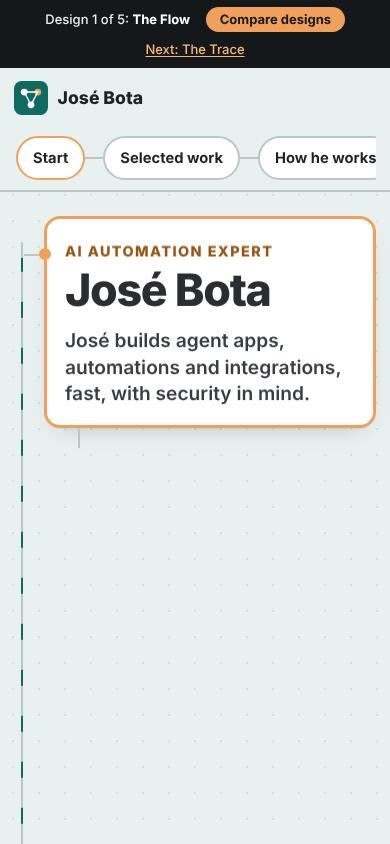
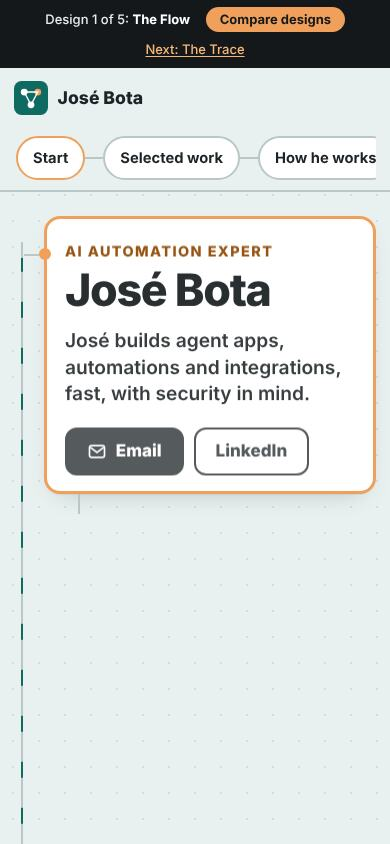
Contact buttons at the top, the Web Summit command centre, and an AI box
At José Bota's word, 16 Nov 2026: "the email and linkedin should be in
boxes", "the command center for web summit should be there as well", the
team page, and "a box like the one attached with ... llms.txt". On a
branch; not released.

- Home page: Email and LinkedIn buttons in the first node.
- Home page: a box in the agent team node linking his command centre,
  his team page and his people page on the Web Summit site. Its one line
  of description is from his people page (read 2026-11-16).
- Home page: the closing box gains "Ask your AI assistant about José"
  (the instructions for a hirer's agent) and "Hiring brief for agents"
  (llms.txt).
- The two new links are also in The Trace, The Fact Sheet, The Arena,
  work/, index.md and llms.txt.

Agent: site@AgentiCCells.jose
Claude-Session: https://claude.ai/code/session_01CqQLD8xdE7so2j3Zqiwt6R

Changed region(s): [[0.0923, 0.4929, 0.9846, 0.6161]]

diff --git a/src/index.html b/src/index.html
@@ -180,6 +180,13 @@ h1{font-size:clamp(2.8rem,8vw,5rem);letter-spacing:-.03em;line-height:1}
 .talk{display:block}
 .talk-line{font-size:1.25rem;font-weight:800;margin:0 0 .9rem}
 .talk-actions{display:flex;flex-wrap:wrap;gap:10px;margin:0}
+.hero-actions{margin-top:1.1rem}
+.talk-ai{margin-top:1.1rem;padding-top:1.1rem;border-top:2px dashed var(--line)}
+.talk-ai .talk-line{font-size:1.05rem}
+.centre{margin-top:1rem;padding:16px 18px;border:2px solid var(--teal);border-radius:14px;background:var(--teal-soft)}
+.centre h4{margin:0 0 .3rem;display:flex;align-items:center;gap:.5rem}
+.centre h4 i{width:10px;height:10px;border-radius:50%;background:var(--teal);flex:none}
+.centre p{margin:0 0 .8rem}
 .btn{display:inline-flex;align-items:center;gap:.55rem;min-height:48px;padding:0 20px;border:2px solid var(--ink);border-radius:12px;background:var(--node);color:var(--ink);font-weight:800;text-decoration:none}
 .btn.solid{background:var(--ink);color:#fff}
 .btn svg{width:20px;height:20px;flex:none}
@@ -287,6 +294,7 @@ footer p{margin:.25rem 0}
   .pipe>li.person{animation-name:land;animation-delay:6s}
   @keyframes run{0%,14%,100%{box-shadow:var(--shadow)}5%{box-shadow:0 0 0 4px var(--orange-fill),var(--shadow)}}
   @keyframes land{0%,16%,100%{box-shadow:var(--shadow);transform:none}6%{box-shadow:0 0 0 6px var(--plum-soft),0 0 0 9px var(--plum);transform:scale(1.03)}}
+  .centre h4 i{animation:port 2.2s ease-in-out infinite}
   .dots i:not(.off){animation:blink 3.2s ease-in-out infinite}
   .dots i:nth-child(3n){animation-delay:.5s}.dots i:nth-child(3n+1){animation-delay:1.1s}
   @keyframes blink{50%{opacity:.45}}
@@ -371,6 +379,7 @@ footer p{margin:.25rem 0}
 <p class="role">AI automation expert</p>
 <h1>José Bota</h1>
 <p class="lead">José builds agent apps, automations and integrations, fast, with security in mind.</p>
+<p class="talk-actions hero-actions"><a class="btn solid" href="mailto:josebota@gmail.com"><svg viewBox="0 0 24 24" aria-hidden="true"><rect x="3" y="5" width="18" height="14" rx="2.5" fill="none" stroke="currentColor" stroke-width="2"/><path d="M4 7l8 6 8-6" fill="none" stroke="currentColor" stroke-width="2"/></svg>Email</a><a class="btn" href="https://www.linkedin.com/in/jbota/">LinkedIn</a></p>
 </div>
 <div class="fork">
 <span class="fork-lines" aria-hidden="true"></span>
@@ -382,7 +391,7 @@ footer p{margin:.25rem 0}
 <li><strong>14</strong><span>agents, 13 running<a class="ref" href="#src-6" aria-label="Source 6">[6]</a></span></li>
 <li><strong>277</strong><span>commits by his agents on the team's site<a class="ref" href="#src-2" aria-label="Source 2">[2]</a></span></li>
 </ul>
-<p class="small">Reach him at <a href="mailto:josebota@gmail.com">josebota@gmail.com</a> or on <a href="https://www.linkedin.com/in/jbota/">LinkedIn</a>. This page is one flow: each step below is a node on the wire, and every figure names its source.</p>
+<p class="small">This page is one flow: each step below is a node on the wire, and every figure names its source.</p>
 </section>
 
 <section class="stage" id="work" aria-labelledby="h-work">
@@ -495,7 +504,11 @@ footer p{margin:.25rem 0}
 <li>a sales coach that trains his RiskMandate pitch by role-play</li>
 <li class="wide">a conductor, a designer, a CRM agent, a vault agent, an accountant and a dashboard agent</li>
 </ul>
-<p class="small" style="margin-top:.9rem">See it: <a href="https://web-summit.sgit.ai/people/jose/index.md">his people page on the Web Summit site</a>.</p>
+<div class="centre">
+<h4><i aria-hidden="true"></i>His command centre on the Web Summit site</h4>
+<p>Tasks, workstreams, decisions, agents and Ask Claude, built from the repository at every release.<a class="ref" href="#src-6" aria-label="Source 6">[6]</a></p>
+<p class="talk-actions"><a class="btn solid" href="https://web-summit.sgit.ai/people/jose/app/index.html#stand">Open the command centre</a><a class="btn" href="https://web-summit.sgit.ai/team/jose/index.html">His team page</a><a class="btn" href="https://web-summit.sgit.ai/people/jose/index.md">His people page</a></p>
+</div>
 </article>
 </section>
 
@@ -611,6 +624,10 @@ footer p{margin:.25rem 0}
 <p class="talk-line">Hiring for an AI role, or have an automation project? Let's talk.</p>
 <p class="talk-actions"><a class="btn solid" href="mailto:josebota@gmail.com"><svg viewBox="0 0 24 24" aria-hidden="true"><rect x="3" y="5" width="18" height="14" rx="2.5" fill="none" stroke="currentColor" stroke-width="2"/><path d="M4 7l8 6 8-6" fill="none" stroke="currentColor" stroke-width="2"/></svg>Send an email</a><a class="btn" href="https://www.linkedin.com/in/jbota/"><svg viewBox="0 0 24 24" aria-hidden="true"><rect x="3" y="3" width="18" height="18" rx="3" fill="none" stroke="currentColor" stroke-width="2"/><path d="M8 10.5V17M8 7.2v.1M12 17v-3.6c0-1.6 1-2.6 2.3-2.6S16.5 11.8 16.5 13.4V17" fill="none" stroke="currentColor" stroke-width="2" stroke-linecap="round"/></svg>LinkedIn</a></p>
 <p class="small" style="margin-top:.9rem"><a href="mailto:josebota@gmail.com">josebota@gmail.com</a> · <a href="https://www.linkedin.com/in/jbota/">linkedin.com/in/jbota</a></p>
+<div class="talk-ai">
+<p class="talk-line">Or let your AI assistant read the site for you.</p>
+<p class="talk-actions"><a class="btn solid" href="agents/#hiring-or-project">Ask your AI assistant about José</a><a class="btn" href="llms.txt">Hiring brief for agents</a></p>
+</div>
 </div>
 </section>
 

diff --git a/src/d/arena/index.html b/src/d/arena/index.html
@@ -352,7 +352,8 @@ footer a:focus-visible{outline-color:var(--paper);box-shadow:0 0 0 8px var(--ind
 <li><b>A sales coach</b> that trains his RiskMandate pitch by role-play.</li>
 <li><b>And six more:</b> a conductor, a designer, a CRM agent, a vault agent, an accountant and a dashboard agent.</li>
 </ul>
-<p><a class="btn" href="https://web-summit.sgit.ai/people/jose/index.md">See it: his people page on the Web Summit site</a></p>
+<p><a class="btn" href="https://web-summit.sgit.ai/people/jose/app/index.html#stand">See it: his command centre on the Web Summit site</a></p>
+<p>Also <a href="https://web-summit.sgit.ai/team/jose/index.html">his team page</a> and <a href="https://web-summit.sgit.ai/people/jose/index.md">his people page</a>.</p>
 <p class="src">Sources: 14 agents, 13 running: <a href="https://web-summit.sgit.ai/people/jose/index.md">people page</a> (read 2026-11-16). 277 commits: <a href="https://newsroom.sgit.ai/articles/ten-days-at-web-summit.md">Ten days at Web Summit</a> (read 2026-11-16).</p>
 </article>
 

diff --git a/src/d/sheet/index.html b/src/d/sheet/index.html
@@ -346,7 +346,7 @@ It shows a trace of every tool call, a live request budget, rate limits, leaderb
 <dt>What he did</dt>
 <dd>Runs this team of agents for his own work.</dd>
 <dt>See it</dt>
-<dd><a class="ext" href="https://web-summit.sgit.ai/people/jose/index.md">His people page on the Web Summit site</a></dd>
+<dd><a class="ext" href="https://web-summit.sgit.ai/people/jose/app/index.html#stand">His command centre on the Web Summit site</a>; <a class="ext" href="https://web-summit.sgit.ai/team/jose/index.html">his team page</a>; <a class="ext" href="https://web-summit.sgit.ai/people/jose/index.md">his people page</a></dd>
 <dt>Sources</dt>
 <dd class="small">14 agents, 13 running: people page<span class="ref"><a href="#src-6" aria-label="Source 6">[6]</a></span>. 277 commits: Ten days at Web Summit<span class="ref"><a href="#src-2" aria-label="Source 2">[2]</a></span>.</dd>
 </dl>

diff --git a/src/work/index.html b/src/work/index.html
@@ -104,7 +104,7 @@ It shows a trace of every tool call, a live request budget, rate limits, leaderb
 <dt>What he did</dt>
 <dd>Runs this team of agents for his own work.</dd>
 <dt>See it</dt>
-<dd><a href="https://web-summit.sgit.ai/people/jose/index.md">His people page on the Web Summit site</a></dd>
+<dd><a href="https://web-summit.sgit.ai/people/jose/app/index.html#stand">His command centre on the Web Summit site</a>; <a href="https://web-summit.sgit.ai/team/jose/index.html">his team page</a>; <a href="https://web-summit.sgit.ai/people/jose/index.md">his people page</a></dd>
 <dt>Sources</dt>
 <dd class="source">14 agents, 13 running: <a href="https://web-summit.sgit.ai/people/jose/index.md">people page</a> (read 2026-11-16). 277 commits: <a href="https://newsroom.sgit.ai/articles/ten-days-at-web-summit.md">Ten days at Web Summit</a> (read 2026-11-16).</dd>
 </dl>

diff --git a/src/d/trace/index.html b/src/d/trace/index.html
@@ -330,7 +330,7 @@ figure.media{border:1px solid var(--line);border-radius:.5rem;background:var(--p
 </ul>
 </dd></div>
 <div><dt>What he did</dt><dd>Runs this team of agents for his own work.</dd></div>
-<div><dt>See it</dt><dd><a href="https://web-summit.sgit.ai/people/jose/index.md">His people page on the Web Summit site</a></dd></div>
+<div><dt>See it</dt><dd><a href="https://web-summit.sgit.ai/people/jose/app/index.html#stand">His command centre on the Web Summit site</a> · <a href="https://web-summit.sgit.ai/team/jose/index.html">his team page</a> · <a href="https://web-summit.sgit.ai/people/jose/index.md">his people page</a></dd></div>
 <div><dt>Sources</dt><dd>14 agents, 13 running: people page <a class="ref" href="#src-6">[6]</a>. 277 commits: Ten days at Web Summit <a class="ref" href="#src-2">[2]</a>.</dd></div>
 </dl>
 </li>

diff --git a/src/index.md b/src/index.md
@@ -36,6 +36,9 @@ At Web Summit Lisbon 2026 (9 to 12 November), for the RiskMandate team, José to
 
 277 commits by his agents on the team's site (source: https://newsroom.sgit.ai/articles/ten-days-at-web-summit.md, read 2026-11-16).
 
+- His command centre on the Web Summit site: https://web-summit.sgit.ai/people/jose/app/index.html#stand
+- His team page: https://web-summit.sgit.ai/team/jose/index.html
+
 ## How he works
 
 - Fast: two working agent apps in a day.
